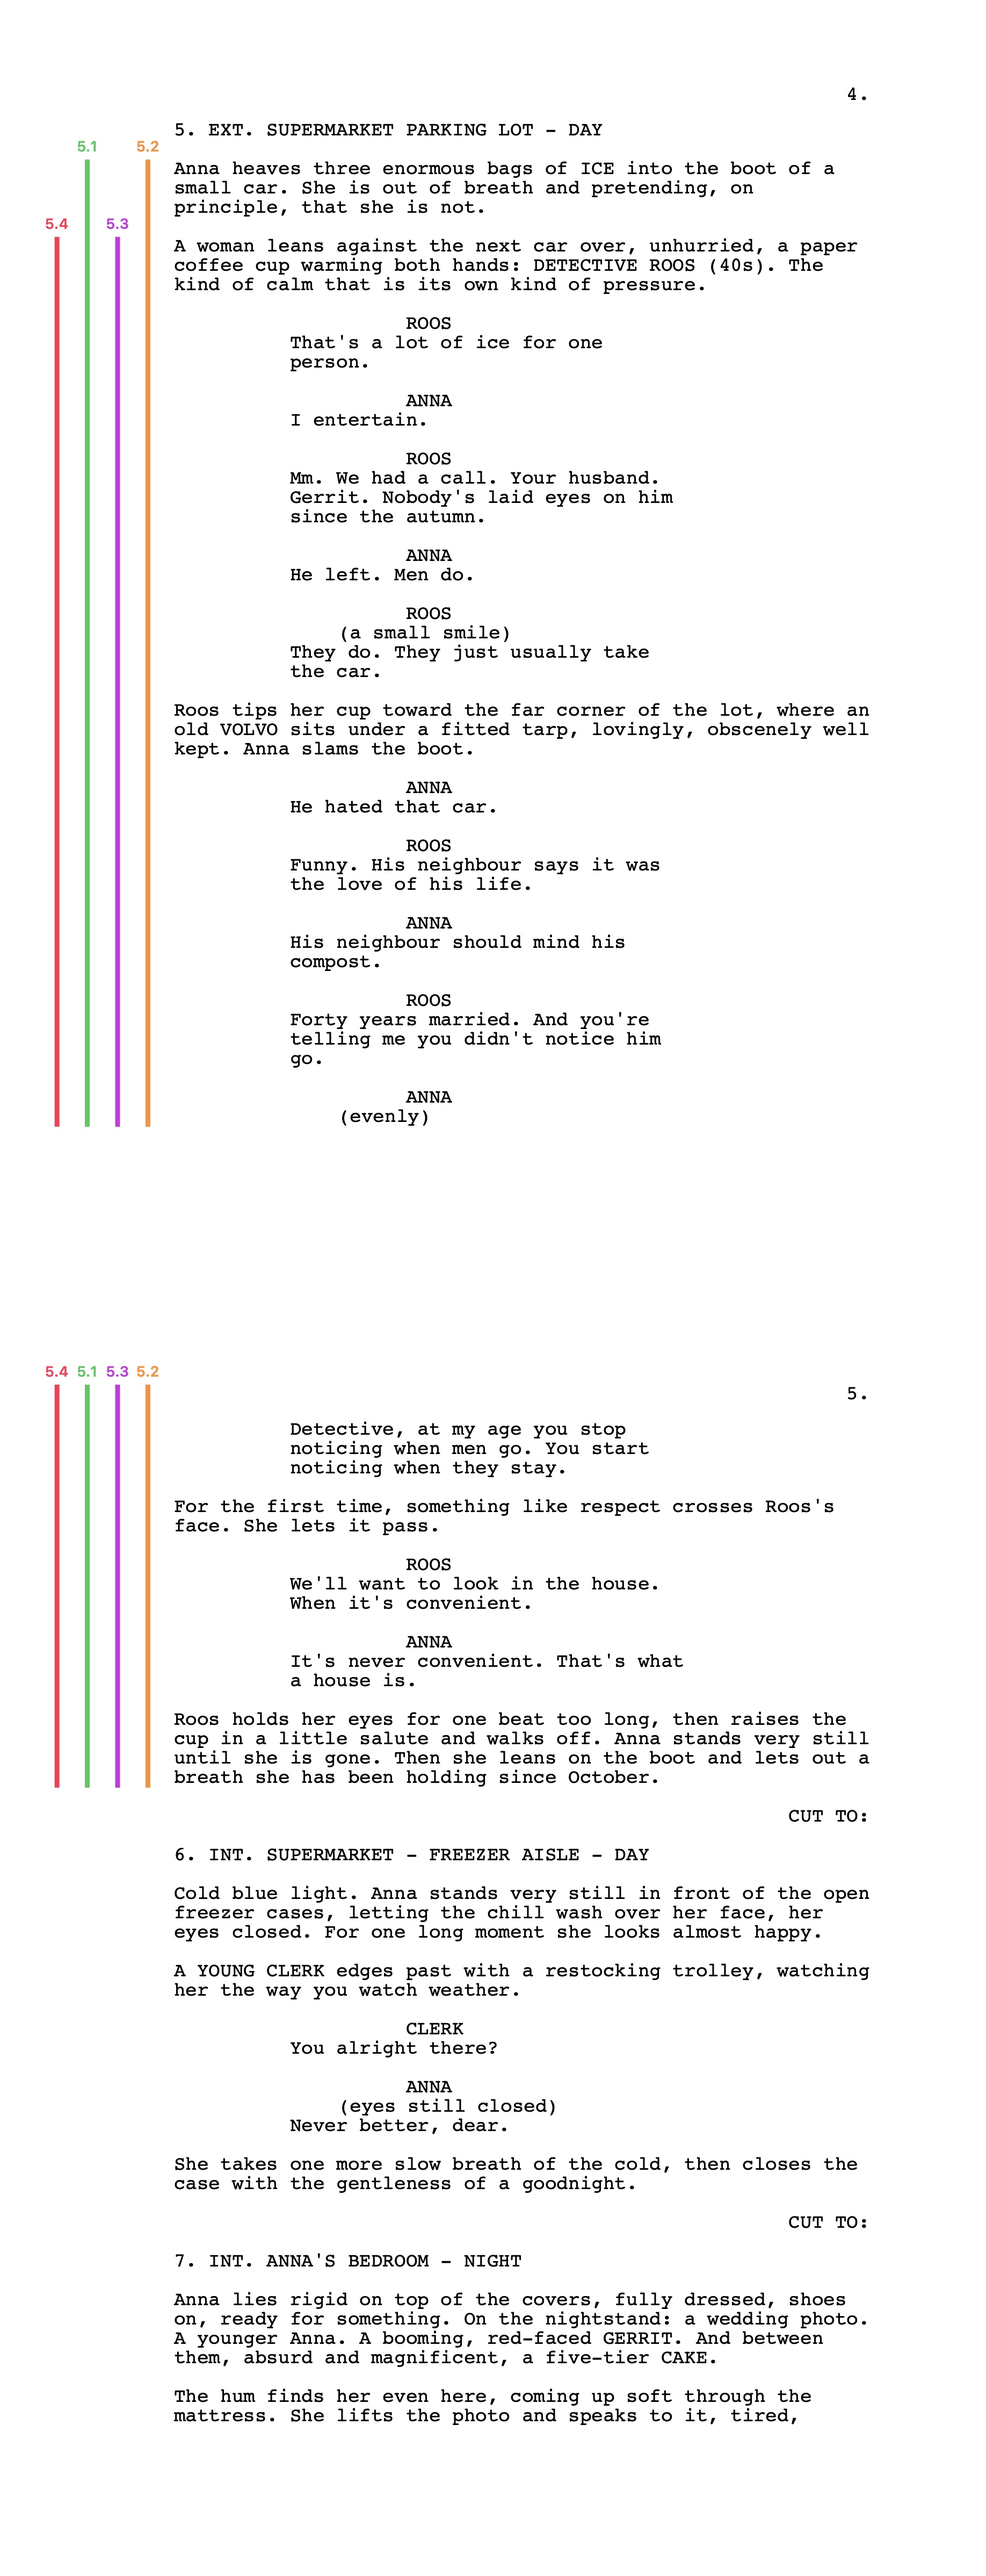
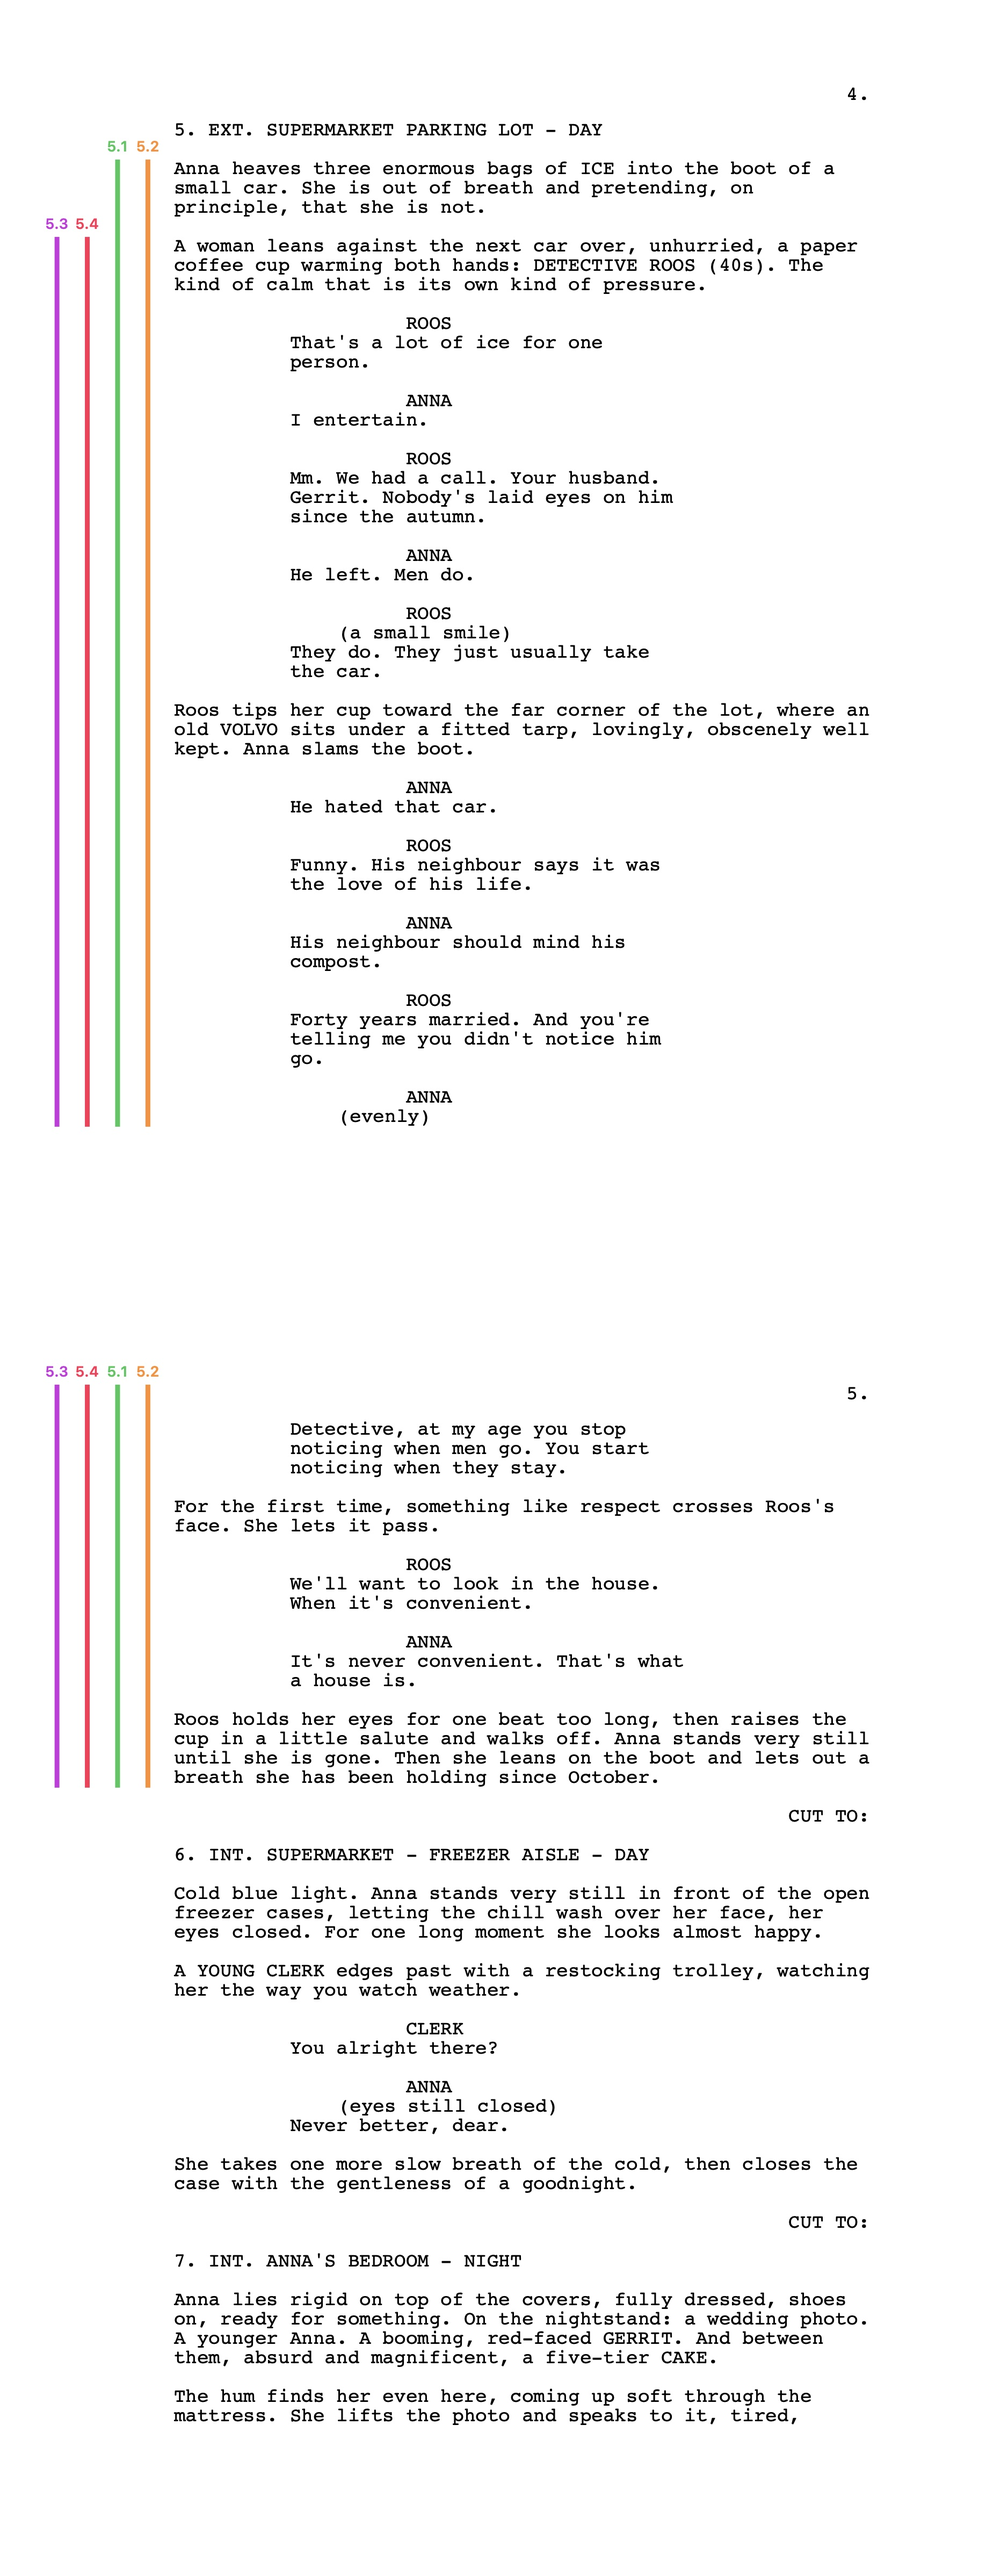
Publish shot list from CinePlanner

Changed region(s): [[0.031, 0.0622, 0.1242, 0.4351], [0.031, 0.5284, 0.1242, 0.6838]]

diff --git a/index.html b/index.html
@@ -480,7 +480,7 @@
 </div>
 
 <div class="episodes">
-<section class="episode" data-ep="0" data-has-days="0" data-sub="Version 1 · 10 scenes · 33 shots" data-director="John Doe" data-cinematographer="Yannick GIraud">
+<section class="episode" data-ep="0" data-has-days="1" data-sub="Version 1 · 10 scenes · 33 shots" data-director="John Doe" data-cinematographer="Yannick GIraud">
   <div class="layout">
     <nav class="toc">
       <div class="toc-title">Scenes</div>
@@ -2575,7 +2575,7 @@ she hangs up. she leans over and blows out the lamp. size ws focal length 20mm g
 
 <button class="totop" id="totop" type="button" aria-label="Back to top" hidden>↑</button>
 
-<script>var CP_EPISODES = [[]].map(function (s) { return { schedule: s }; });</script>
+<script>var CP_EPISODES = [[{"notes":"","n":1,"setups":3,"goldenAM":"","sunset":"","entries":[{"s":0,"all":true,"shots":["1.3","1.4","1.1","1.2"],"note":""},{"shots":["4.1","4.2"],"all":true,"note":"","s":3},{"shots":["10.3","10.1","10.2","10.4","10.5"],"s":9,"all":true,"note":""}],"iso":"2027-01-04","sunrise":"","date":"Monday, 4 January 2027","shots":11,"goldenPM":""},{"shots":12,"n":2,"notes":"During Supermarket Scenes, Pre-Light for cellar","setups":4,"sunrise":"","date":"Tuesday, 5 January 2027","iso":"2027-01-05","sunset":"","goldenAM":"","entries":[{"note":"","s":4,"shots":["5.3","5.1","5.4","5.2"],"all":true},{"note":"","shots":["6.1","6.2"],"s":5,"all":true},{"all":true,"note":"","shots":["2.1"],"s":1},{"s":7,"all":true,"shots":["8.2","8.3","8.5","8.1","8.4"],"note":""}],"goldenPM":""},{"goldenAM":"","shots":10,"n":3,"setups":3,"entries":[{"s":2,"all":true,"note":"","shots":["3.2","3.3","3.1","3.4"]},{"shots":["9.1","9.2","9.3"],"s":8,"all":true,"note":""},{"shots":["7.1","7.2","7.3"],"all":true,"note":"","s":6}],"sunset":"","goldenPM":"","iso":"2027-01-20","sunrise":"","date":"Wednesday, 20 January 2027","notes":"During Ext scenes, Pre-Light for Bedroom"}]].map(function (s) { return { schedule: s }; });</script>
 <script>
 (function () {
   function qsa(sel, ctx) { return Array.prototype.slice.call((ctx || document).querySelectorAll(sel)); }
